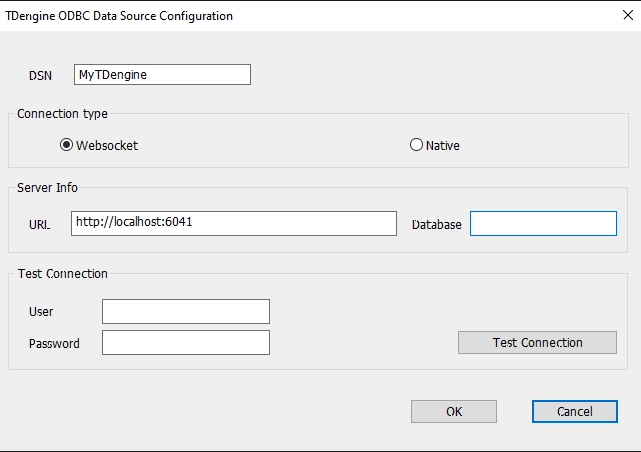
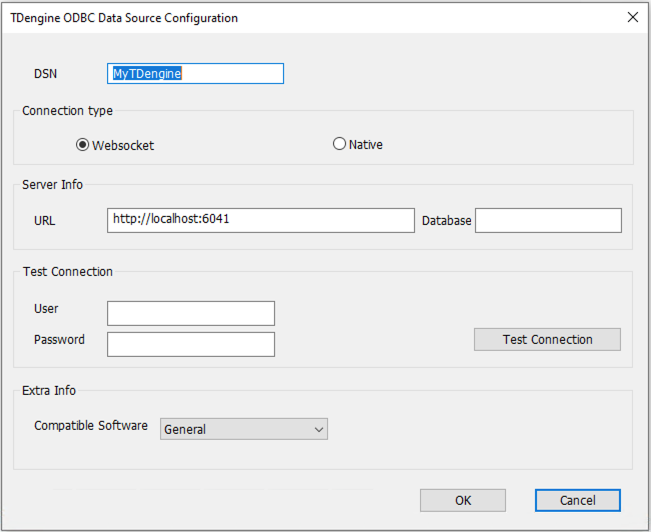
docs: add odbc connector support ado

diff --git a/docs/en/14-reference/05-connector/50-odbc.md b/docs/en/14-reference/05-connector/50-odbc.md
@@ -70,7 +70,7 @@ TDengine ODBC supports two ways to connect to the TDengine database: WebSocket c
 
     4.6 **Password**: Optional, for use in step 5 connection testing only, database user password, if not specified, TDengine defaults to taosdata
 
-    4.7 **Compatible Software**: Supports compatibility adaptation for industrial software such as KingSCADA, Kepware, etc., usually, the default value General is sufficient
+    4.7 **Compatible Software**: Supports compatibility adaptation for industrial software such as KingSCADA, Kepware, etc., with ADO support included. Usually, the default value General is sufficient for most scenarios
 
 5. Click **Test Connection** to test the connection status. If successful, a "Successfully connected to URL" message will appear.
 
@@ -104,7 +104,7 @@ TDengine ODBC supports two ways to connect to the TDengine database: WebSocket c
 
     4.6 **Password**: Optional, used only for testing the connection in step 5, database user password, if not specified, TDengine defaults to taosdata.
 
-    4.7 **Compatible Software**: Supports compatibility adaptation for industrial software such as KingSCADA, Kepware, etc. Usually, the default value General is sufficient.
+    4.7 **Compatible Software**: Supports compatibility adaptation for industrial software such as KingSCADA, Kepware, etc., with ADO support included. Usually, the default value General is sufficient for most scenarios.
 
 5. Click **Test Connection** to test the connection status. If successful, a "Connection successful" message will appear.
 
@@ -121,6 +121,7 @@ In addition to this, the WebSocket connection method also supports 32-bit applic
 
 | taos_odbc Version | Major Changes                                                                                             |   TDengine Version    |
 | -----------  | --------------------------------------------------------------------------------------------------  | ----------------  |
+|      v1.1.1   | Support ADO access to TDengine ODBC 32/64 interface. | 3.3.3.0 and higher |
 |      v1.1.0   | 1. Supports view functionality. <br/>2. Supports VARBINARY/GEOMETRY data types. <br/>3. Supports ODBC 32-bit WebSocket connection method (Enterprise edition only). <br/>4. Supports ODBC data source configuration dialog settings for compatibility adaptation options for industrial software like KingSCADA, Kepware, etc. (Enterprise edition only). | 3.3.3.0 and higher |
 |      v1.0.2   | Supports CP1252 character encoding.                                                                                 | 3.2.3.0 and higher |
 |      v1.0.1   | 1. Supports DSN settings for BI mode, in BI mode TDengine database does not return system database and supertable subtable information. <br/>2. Refactored character set conversion module, improving read and write performance. <br/> 3. Default connection method in ODBC data source configuration dialog changed to "WebSocket". <br/>4. Added "Test Connection" control in ODBC data source configuration dialog. <br/>5. ODBC data source configuration supports Chinese/English interface. |         -          |
